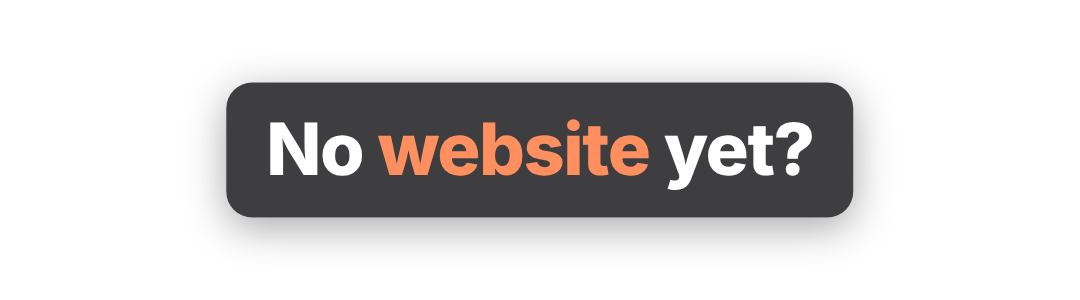
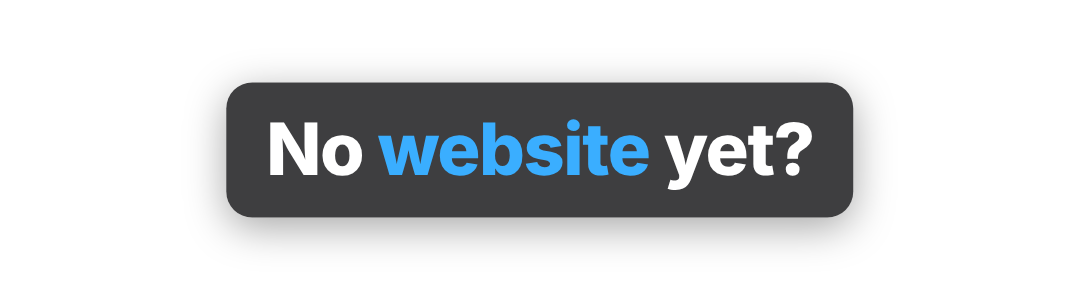
Use the CYWEB desk photo as the plate
Paint out the labels baked into the photo, zoom/crop to 9:16 around the
monitor, pin the film's 2:1 band onto the measured screen corners with the
glow shifted to CYWEB blue, screen light blooming onto the room, and
labels/captions restyled to the photo's blue design.

Claude-Session: https://claude.ai/code/session_01MYk2U9H4xZhrhfSxDmNM3V

Changed region(s): [[0.3361, 0.39, 0.6111, 0.6]]

diff --git a/reels/teaser/desk/labels.html b/reels/teaser/desk/labels.html
@@ -4,11 +4,11 @@
 @font-face{font-family:BC;font-weight:700;src:url(barlow-condensed-latin-700-normal.woff2)}
 *{margin:0;padding:0;box-sizing:border-box}
 html,body{width:1080px;height:1920px;background:transparent;overflow:hidden}
-.box{position:absolute;left:50%;transform:translateX(-50%);background:#010101;border-radius:10.5px;display:flex;align-items:center;white-space:nowrap;
- font-family:BC;font-weight:700;color:#fafafb;text-transform:uppercase;letter-spacing:0}
+.box{position:absolute;left:50%;transform:translateX(-50%);background:#010101;border-radius:18px;display:flex;align-items:center;white-space:nowrap;
+ font-family:BC;font-weight:700;color:#fafafb;text-transform:uppercase;letter-spacing:0;border:3px solid #2b9dff;box-shadow:0 0 14px 2px rgba(43,157,255,.75),inset 0 0 10px rgba(43,157,255,.25)}
 .b1{top:262.5px;height:99px;font-size:62px;padding:0 25px 0 21px;gap:18px}
 .b2{top:376.5px;height:78px;font-size:49px;padding:0 22px 0 18px;gap:16px}
-.acc{color:#d57c58}
+.acc{color:#2ea6ff}
 svg{flex:none}
 </style></head><body>
 <div class="box b1" id="b1"><svg width="64" height="64" viewBox="-32 -32 64 64"><g id="spark1"></g></svg><span>CUSTOMERS <span class="acc">CAN'T FIND YOU?</span></span></div>
@@ -17,5 +17,5 @@ svg{flex:none}
 // 12-ray spark, rebuilt as a vector
 for (const id of ['spark1','spark2']) { let p=''; for (let i=0;i<12;i++){ const a=i*Math.PI/6+(i%2?0.12:0), r=i%2?27:31, w=0.11;
   p+=`M${(Math.cos(a-w)*6).toFixed(2)} ${(Math.sin(a-w)*6).toFixed(2)} L${(Math.cos(a)*r).toFixed(2)} ${(Math.sin(a)*r).toFixed(2)} L${(Math.cos(a+w)*6).toFixed(2)} ${(Math.sin(a+w)*6).toFixed(2)} Z `; }
-  document.getElementById(id).innerHTML=`<circle r="8" fill="#d57c58"/><path d="${p}" fill="#d57c58" stroke="#d57c58" stroke-width="2.4" stroke-linejoin="round"/>`; }
+  document.getElementById(id).innerHTML=`<circle r="8" fill="#f5a26b"/><path d="${p}" fill="#f5a26b" stroke="#f5a26b" stroke-width="2.4" stroke-linejoin="round"/>`; }
 </script></body></html>

diff --git a/reels/teaser/desk/captions.html b/reels/teaser/desk/captions.html
@@ -8,5 +8,5 @@ html,body{width:1080px;height:300px;background:transparent;overflow:hidden}
   font-family:IN;font-weight:800;font-size:72px;letter-spacing:-0.02em;color:#fff;
   padding:22px 40px 26px;border-radius:26px;background:rgba(8,8,10,.78);
   box-shadow:0 10px 40px rgba(0,0,0,.35)}
-.k{color:#ff8f5e}
+.k{color:#3aaeff}
 </style></head><body><div class="cap" id="c"></div></body></html>

diff --git a/reels/teaser/tools/composite_photo.py b/reels/teaser/tools/composite_photo.py
@@ -1,0 +1,41 @@
+# Composite the screen film onto the user's desk photo (desk/plate_user.png).
+#   film (central 2:1 band, teal glow shifted to CYWEB blue) -> getPerspectiveTransform + warpPerspective
+#   onto the measured screen corners, clipped to the screen; glass sheen; screen light blooming onto the
+#   bezel, wall and desk in the screen's own colour; light grain; animated labels + captions on top.
+import cv2, numpy as np, json, sys, os
+sys.path.insert(0, 'tools')
+import composite_room as CR                       # reuse labels + captions animation (overlays)
+cfg = json.load(open('desk/corners_user.json')); C = np.float32(cfg['corners'])
+plate = cv2.imread(cfg['plate']).astype(np.float32); H, W = plate.shape[:2]
+BAND = (60, 1020)                                  # film rows used: 1920x960 = 2:1, like this monitor
+SRC = np.float32([[0, 0], [1920, 0], [1920, BAND[1] - BAND[0]], [0, BAND[1] - BAND[0]]])
+M = cv2.getPerspectiveTransform(SRC, C)
+ss = 4; big = cv2.warpPerspective(np.full((BAND[1] - BAND[0], 1920), 255, np.uint8), cv2.getPerspectiveTransform(SRC, C * ss), (W * ss, H * ss), flags=cv2.INTER_NEAREST)
+mask = cv2.resize(big.astype(np.float32) / 255, (W, H), interpolation=cv2.INTER_AREA)[..., None]
+yy, xx = np.mgrid[0:H, 0:W].astype(np.float32)
+u = (xx - C[0, 0]) / (C[1, 0] - C[0, 0]); v = (yy - C[0, 1]) / (C[3, 1] - C[0, 1])
+sheen = (0.045 * np.clip(1 - np.abs((u * .8 + v * .6) - .3) / .16, 0, 1) + .02 * np.clip(1 - v, 0, 1))[..., None] * 255
+below = np.clip((yy - C[3, 1]) / 500, 0, 1)[..., None]           # desk area under the screen gets more spill
+def to_blue(img):
+  hsv = cv2.cvtColor(img, cv2.COLOR_BGR2HSV).astype(np.float32)
+  h, s = hsv[..., 0], hsv[..., 1] / 255
+  w = np.clip(1 - np.abs(h - 88) / 14, 0, 1) * np.clip(s * 2, 0, 1)   # teal band (OpenCV hue ~88)
+  hsv[..., 0] = h + 20 * w                                            # -> CYWEB blue (~108)
+  return cv2.cvtColor(np.clip(hsv, 0, 255).astype(np.uint8), cv2.COLOR_HSV2BGR)
+def frame(k):
+  f = cv2.imread(f'film/out/{k:04d}.png')[BAND[0]:BAND[1]]
+  f = to_blue(f).astype(np.float32) * 0.95 + np.array([10, 6, 4], np.float32)   # panel black level (blue-ish)
+  scr = cv2.warpPerspective(f, M, (W, H), flags=cv2.INTER_CUBIC, borderMode=cv2.BORDER_REPLICATE)
+  scr = cv2.GaussianBlur(scr, (0, 0), .6)
+  out = plate * (1 - mask) + mask * np.clip(scr + sheen, 0, 255)
+  # screen light: bloom over the bezel + soft spill on wall and desk, in the screen's colour
+  lit = scr * mask
+  glow = cv2.GaussianBlur(lit, (0, 0), 18) * .22 + cv2.GaussianBlur(lit, (0, 0), 70) * .20 + cv2.GaussianBlur(lit, (0, 0), 220) * (.10 + .25 * below)
+  out = 255 - (255 - out) * (1 - np.clip(glow / 255, 0, 1) * (1 - mask * .85))   # screen-blend
+  g = np.random.default_rng(k).normal(0, 1, (H, W)).astype(np.float32); g = cv2.GaussianBlur(g, (0, 0), .6) * 1.8
+  out = out + g[..., None]
+  out = CR.overlays(k, out)
+  return np.clip(out + .5, 0, 255).astype(np.uint8)
+if __name__ == '__main__':
+  os.makedirs('out/desk', exist_ok=True)
+  for k in range(int(sys.argv[1]), int(sys.argv[2]) + 1): cv2.imwrite(f'out/desk/{k:04d}.png', frame(k))

diff --git a/reels/teaser/tools/plate_from_photo.py b/reels/teaser/tools/plate_from_photo.py
@@ -1,0 +1,30 @@
+# Turn the user's desk photo (assets/desk_user.png, 1122x1402) into the 1080x1920 plate:
+#  1. paint out the labels baked into the photo (column-wise blend between clean rows above and below;
+#     the wall is vertical slats + vertical LED strips, so columns continue naturally) + matching grain
+#  2. zoom to full height and crop around the monitor
+#  3. map the measured screen corners into the plate
+import cv2, numpy as np, json
+im = cv2.imread('assets/desk_user.png').astype(np.float32)
+H0, W0 = im.shape[:2]
+y1, y2, x1, x2 = 126, 346, 172, 1000                      # baked label boxes incl. their glow
+top = im[y1 - 4:y1].mean(0); bot = im[y2:y2 + 4].mean(0)
+t = ((np.arange(y1, y2) - y1) / (y2 - y1))[:, None, None]
+fill = top[None] * (1 - t) + bot[None] * t
+rng = np.random.default_rng(1)
+fill += rng.normal(0, 1.6, fill.shape) * (fill.mean(2, keepdims=True) / 128 + .3)
+mask = np.zeros((H0, W0), np.float32); mask[y1:y2, x1:x2] = 1; mask = cv2.GaussianBlur(mask, (0, 0), 3)[..., None]
+full = im.copy(); full[y1:y2, x1:x2] = fill[:, x1:x2]
+im = im * (1 - mask) + full * mask
+# corners measured on the photo (screen glass, original px)
+C0 = np.float32([[205, 475], [927, 471], [929, 846], [205, 835]])
+s = 1920 / H0; cx = (175.3 + 963.9) / 2 * s; x0 = cx - 540
+big = cv2.resize(np.clip(im, 0, 255).astype(np.uint8), (round(W0 * s), 1920), interpolation=cv2.INTER_LANCZOS4)
+plate = big[:, int(round(x0)):int(round(x0)) + 1080]
+C = C0 * s - np.float32([round(x0), 0])
+cv2.imwrite('desk/plate_user.png', plate)
+json.dump({'plate': 'desk/plate_user.png', 'corners': C.round(1).tolist(), 'source': 'assets/desk_user.png',
+           'source_corners': C0.tolist(), 'scale': s, 'crop_x0': round(x0)}, open('desk/corners_user.json', 'w'), indent=1)
+m = plate.copy(); cv2.polylines(m, [C.astype(np.int32)], True, (0, 255, 255), 3)
+for n, p in zip(('TL', 'TR', 'BR', 'BL'), C): cv2.circle(m, tuple(int(v) for v in p), 12, (0, 0, 255), 3); cv2.putText(m, f'{n} {p[0]:.0f},{p[1]:.0f}', (int(p[0]) + 8, int(p[1]) - 14), 0, .9, (0, 255, 255), 2)
+cv2.imwrite('desk/corners_user_marked.png', m)
+print('corners', C.round(1).tolist())

diff --git a/reels/teaser/tools/qc.py b/reels/teaser/tools/qc.py
@@ -57,7 +57,8 @@ runs = np.split(rows_used, np.where(np.diff(rows_used) > 1)[0] + 1)
 boxes = [(int(r[0]), int(r[-1])) for r in runs]
 screen_top = float(min(C[0, 1], C[1, 1]))
 import os
-lightbar_top = json.load(open('desk/room/monitor_top.json')) if os.path.exists('desk/room/monitor_top.json') else 505   # top of light bar/monitor (bounding box, projected)
+_cfg = json.load(open('desk/corners.json'))
+lightbar_top = _cfg.get('monitor_top') or (json.load(open('desk/room/monitor_top.json')) if os.path.exists('desk/room/monitor_top.json') else 505)   # top of light bar/monitor (bounding box, projected)
 ov = dict(label_boxes_y=boxes, gap_between_labels_px=boxes[1][0] - boxes[0][1] - 1, label_bottom_to_monitor_top_px=round(lightbar_top - boxes[-1][1], 1),
           label_bottom_to_screen_px=round(screen_top - boxes[-1][1], 1), labels_inside_frame=bool(xs.min() > 0 and xs.max() < 1079 and ys.min() > 0))
 rep = dict(lock=lock, text_clearance_film_px=clear, overlap=ov)
